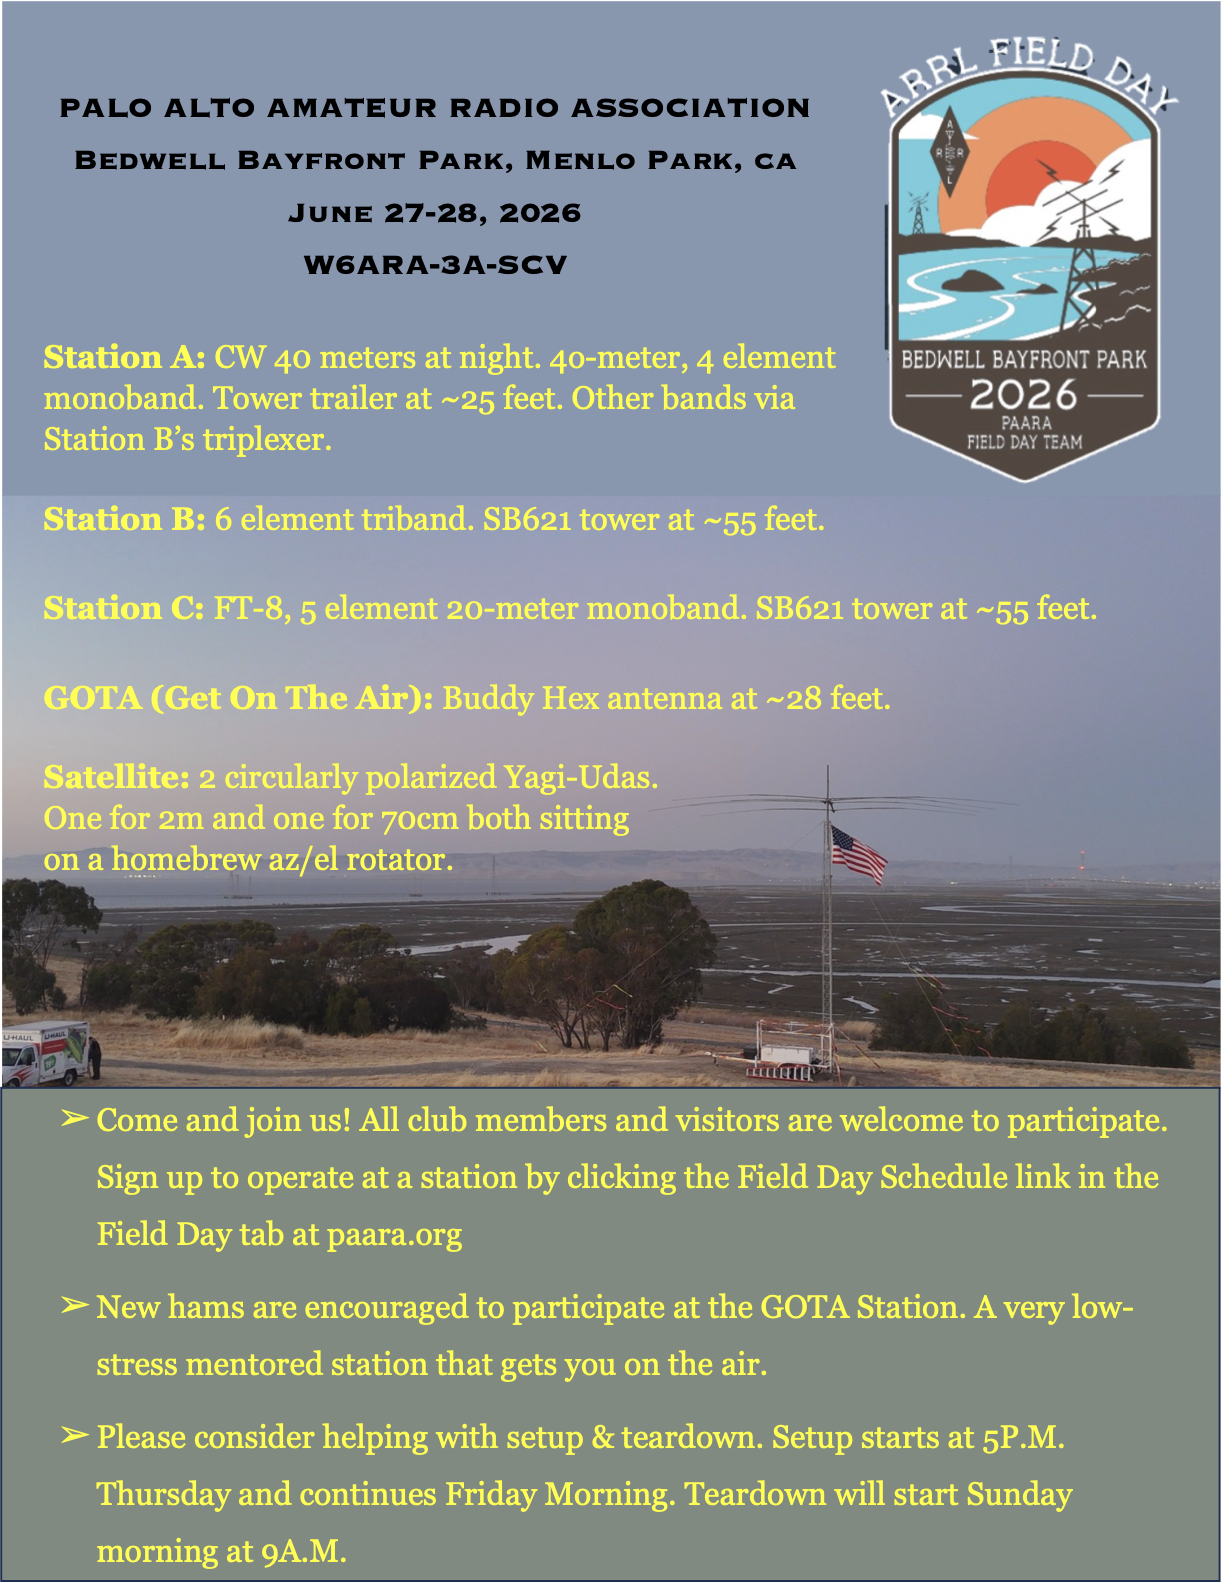
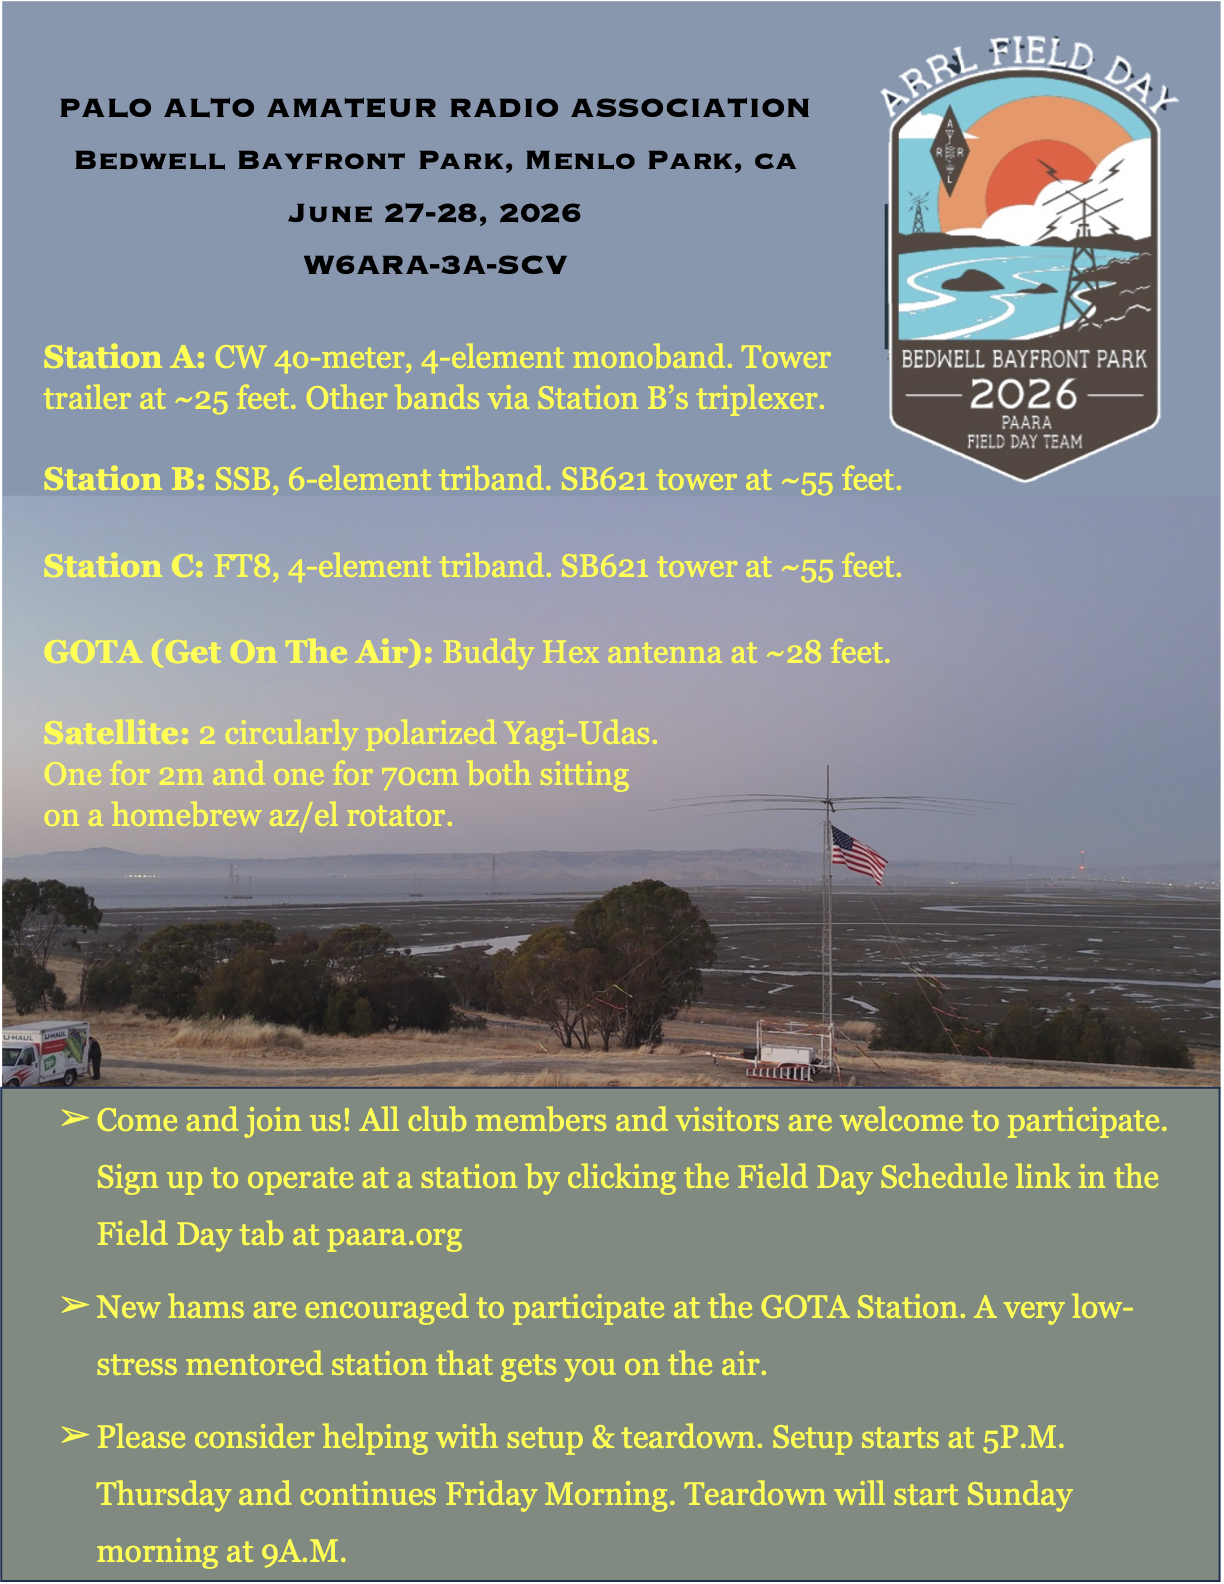
update flyer with new info

diff --git a/fieldday/2026.md b/fieldday/2026.md
@@ -8,7 +8,7 @@
 
 ## Bedwell Bayfront Park, Menlo Park - 27-28 June 2026
 
-![PALO ALTO AMATEUR RADIO ASSOCIATION. Bedwell Bayfront Park, Menlo Park, CA. June 27-28, 2026. W6ARA-3A-SCV. Station A: CW 40 meters at night. 4o-meter, 4 element monoband. Tower trailer at ~25 feet. Other bands via Station B’s triplexer. Station B: 6 element triband. SB621 tower at ~55 feet. Station C: FT-8, 5 element 20-meter monoband. SB621 tower at ~55 feet. GOTA (Get On The Air): Buddy Hex antenna at ~28 feet. Satellite: 2 circularly polarized Yagi-Udas. One for 2m and one for 70cm both sitting on a homebrew az/el rotator. Come and join us! All club members and visitors are welcome to participate.  Sign up to operate at a station by clicking the Field Day Schedule link in the Field Day tab at paara.org. New hams are encouraged to participate at the GOTA Station. A very low-stress mentored station that gets you on the air. Please consider helping with setup & teardown. Setup starts at 5P.M. Thursday and continues Friday Morning. Teardown will start Sunday morning at 9A.M.](/fieldday/images/Field-Day-Flyer-2026.jpg)
+![PALO ALTO AMATEUR RADIO ASSOCIATION. Bedwell Bayfront Park, Menlo Park, CA. June 27-28, 2026. W6ARA-3A-SCV. Station A: CW 4o-meter, 4-element monoband. Tower trailer at ~25 feet. Other bands via Station B’s triplexer. Station B: SSB, 6-element triband. SB621 tower at ~55 feet. Station C: FT8, 4-element triband. SB621 tower at ~55 feet. GOTA (Get On The Air): Buddy Hex antenna at ~28 feet. Satellite: 2 circularly polarized Yagi-Udas. One for 2m and one for 70cm both sitting on a homebrew az/el rotator. Come and join us! All club members and visitors are welcome to participate.  Sign up to operate at a station by clicking the Field Day Schedule link in the Field Day tab at paara.org. New hams are encouraged to participate at the GOTA Station. A very low-stress mentored station that gets you on the air. Please consider helping with setup & teardown. Setup starts at 5P.M. Thursday and continues Friday Morning. Teardown will start Sunday morning at 9A.M.](/fieldday/images/Field-Day-Flyer-2026.jpg)
 
 PAARA will be holding its annual Field Day event at Bedwell Bayfront Park in Menlo Park on June 27 & 28.
 
